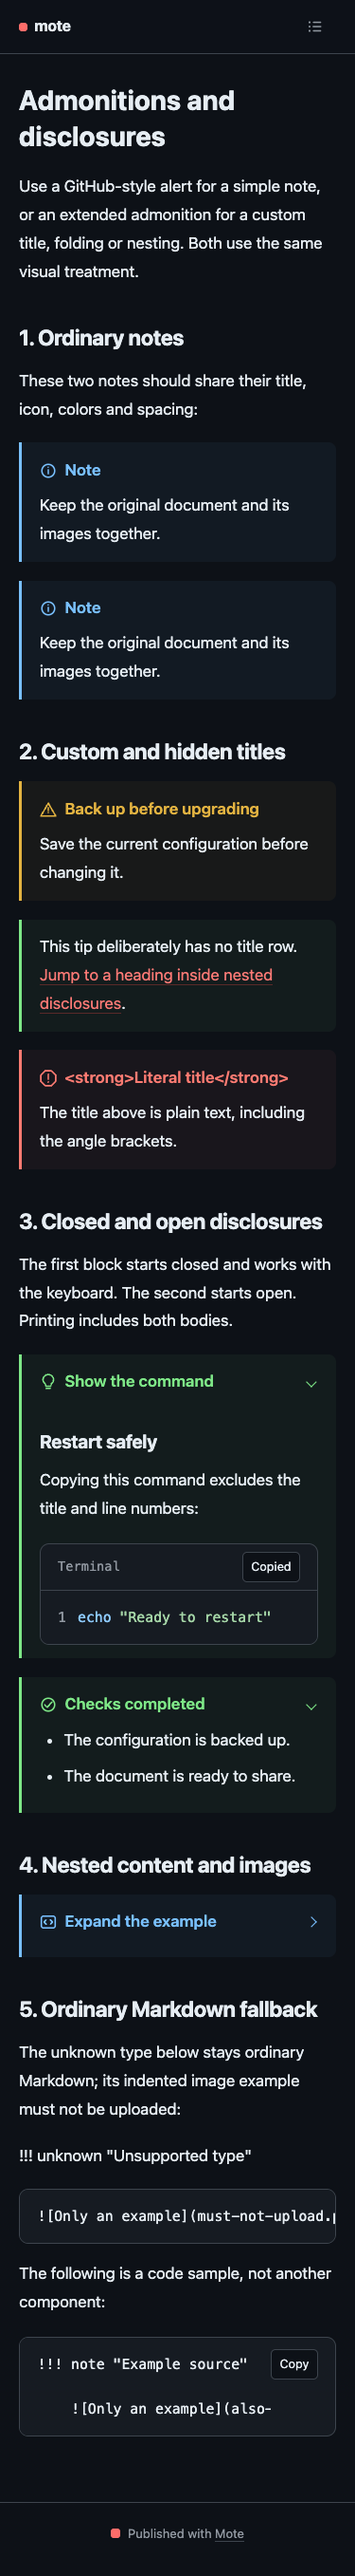
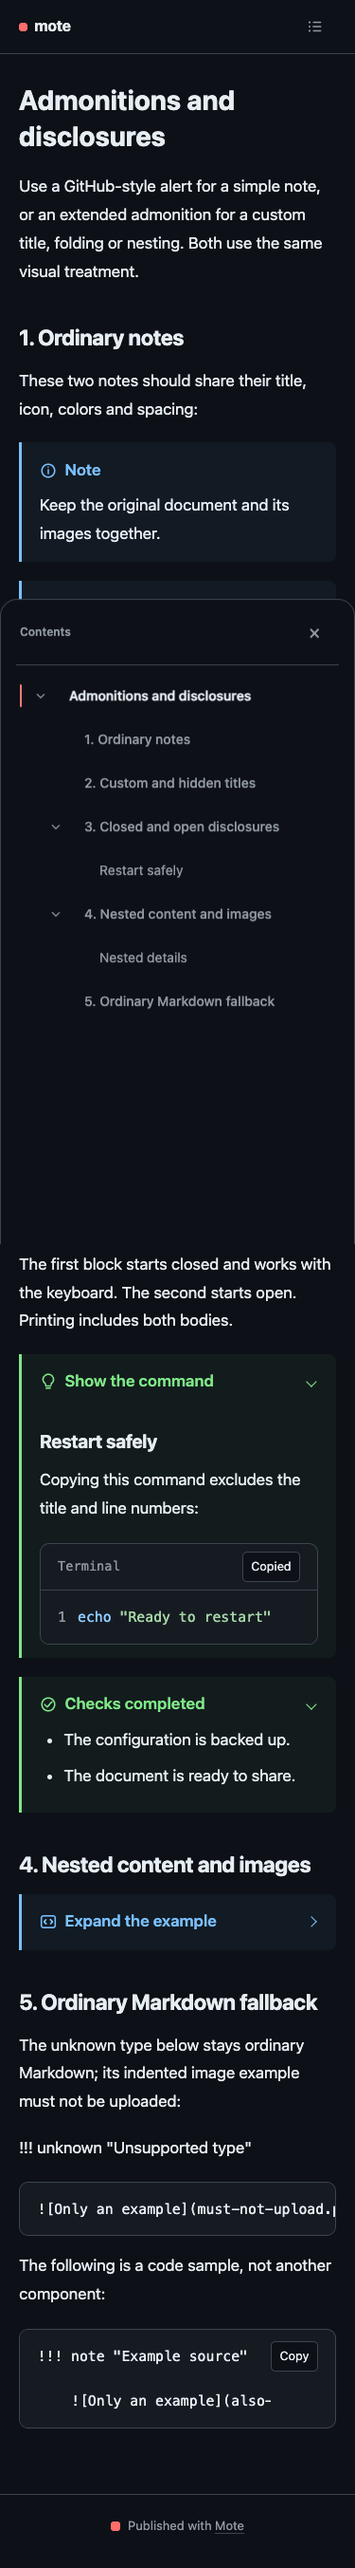
fix(renderer): center collapsed admonition titles

diff --git a/packages/renderer/src/styles.ts b/packages/renderer/src/styles.ts
@@ -353,7 +353,7 @@ article details.markdown-alert {
 }
 /* Keep deeply nested content usable on narrow screens. */
 .markdown-alert .markdown-alert { padding-inline: 0.65em; }
-article details.markdown-alert > summary {
+article details.markdown-alert > summary.markdown-alert-title {
   margin: 0;
   list-style: none;
 }
